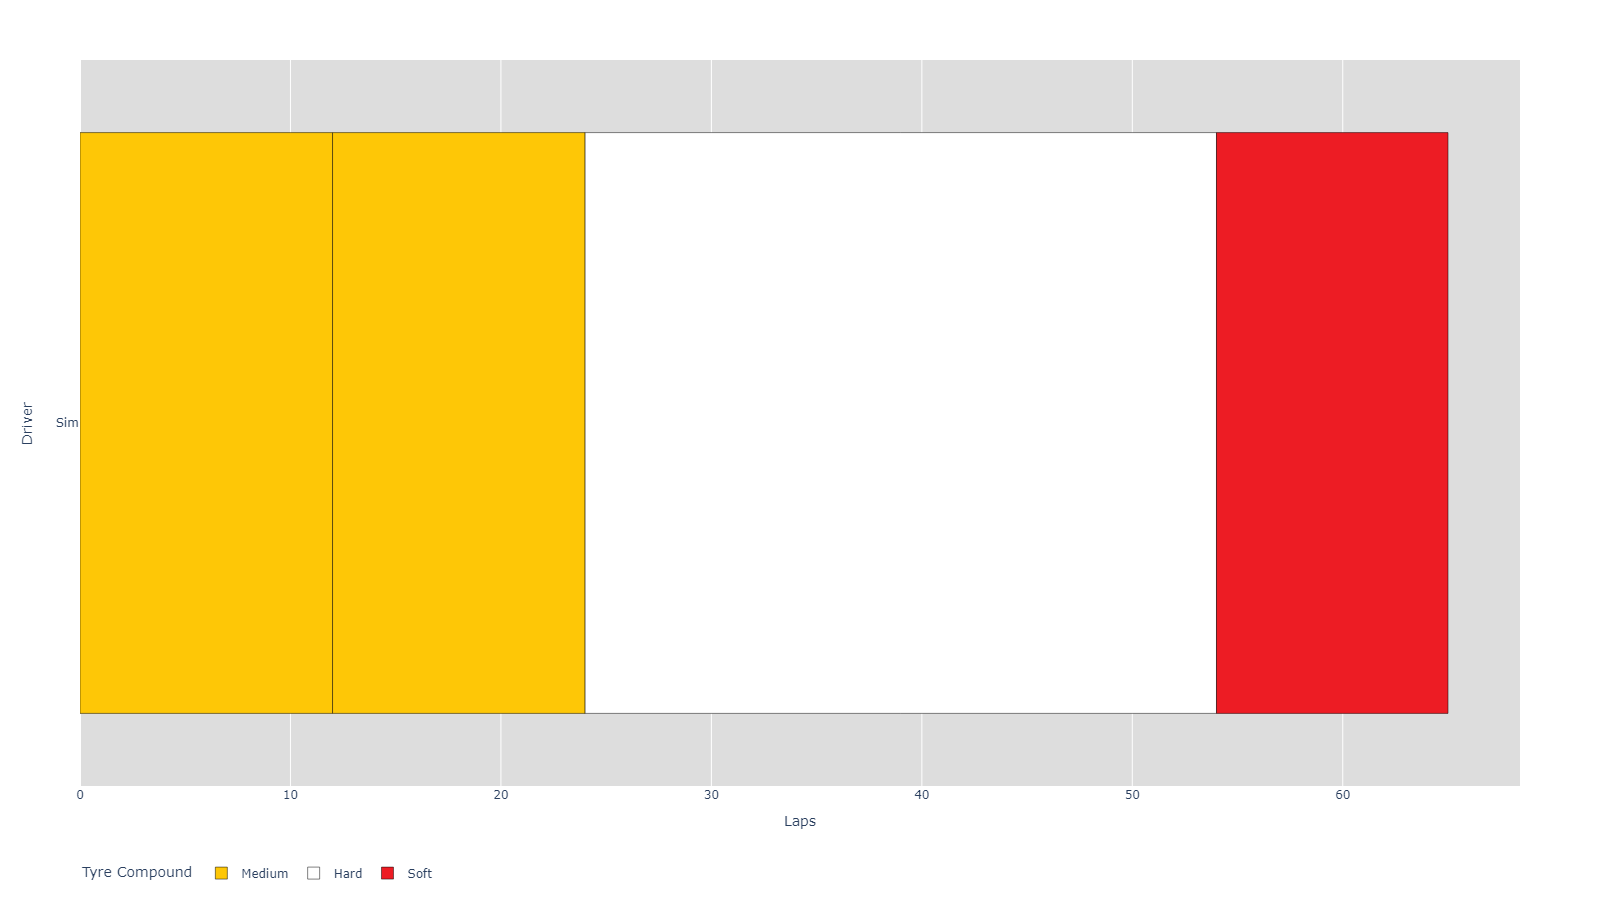
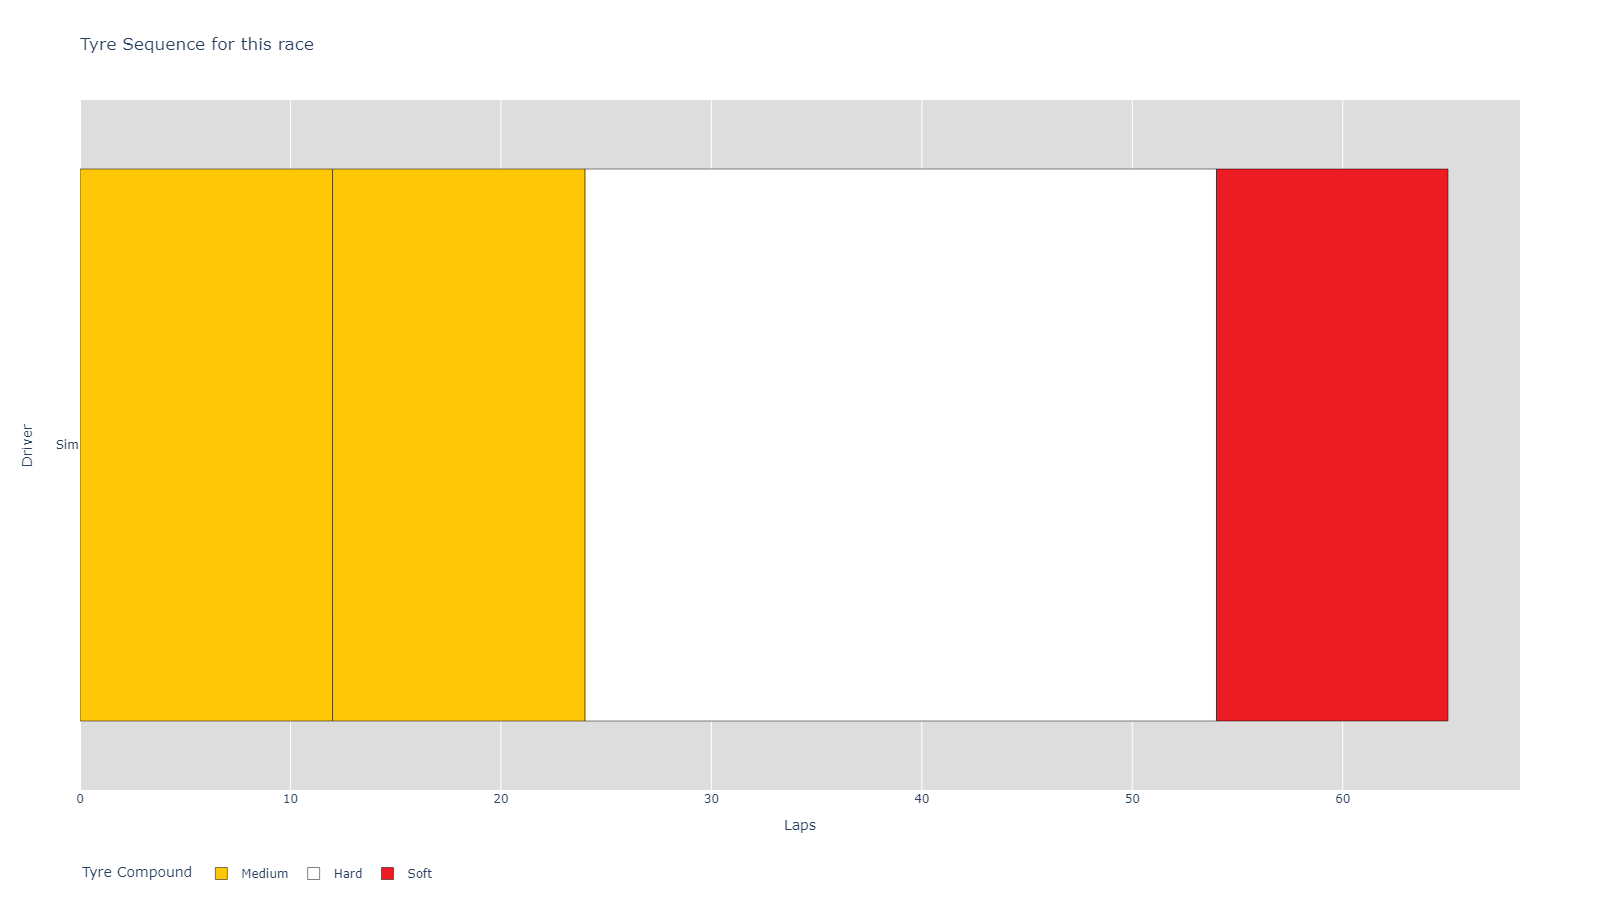
update car speed visualization

diff --git a/src/utils/visualization.py b/src/utils/visualization.py
@@ -28,7 +28,7 @@ class F1SimVisualization:
             'Hard':'White'
         }
 
-        fig=px.bar(data_frame=df_sequences,x='Laps',y='Driver',color='Resource',color_discrete_map=cm, labels={'Resource':'Tyre Compound'})
+        fig=px.bar(data_frame=df_sequences,x='Laps',y='Driver',color='Resource',color_discrete_map=cm, labels={'Resource':'Tyre Compound'}, title='Tyre Sequence for this race')
         fig.update_traces(marker=dict(
             line=dict(
                 color='black'
@@ -43,5 +43,13 @@ class F1SimVisualization:
         fig.write_image(filepath,width=1600, height=900)
 
     def plot_car_speed(self,filepath:str):
-        fig=px.line(self.f1_simulation.list_car_speed_all_stopwatches)
-        fig.write_image(filepath)
+        fig=px.line(self.f1_simulation.list_car_speed_all_stopwatches,title='Car Speed for all stopwatch in this race')
+        fig.update_layout(
+            xaxis_title='number of stopwatch for all laps',
+            yaxis_title='Speed (km/hr)',
+            showlegend=False
+        )
+        temp_max_speed=max(self.f1_simulation.list_car_speed_all_stopwatches)
+        temp_max_speed_idx=self.f1_simulation.list_car_speed_all_stopwatches.index(temp_max_speed)
+        fig.add_annotation(text=f"Max Speed: lap {temp_max_speed_idx//self.f1_simulation.racetrack.num_stopwatch+1} at {temp_max_speed:.2f} km/hr",xref="paper", yref="paper",x=1, y=-0.075, showarrow=False, font=dict(color='red'))
+        fig.write_image(filepath,width=1600, height=900)
